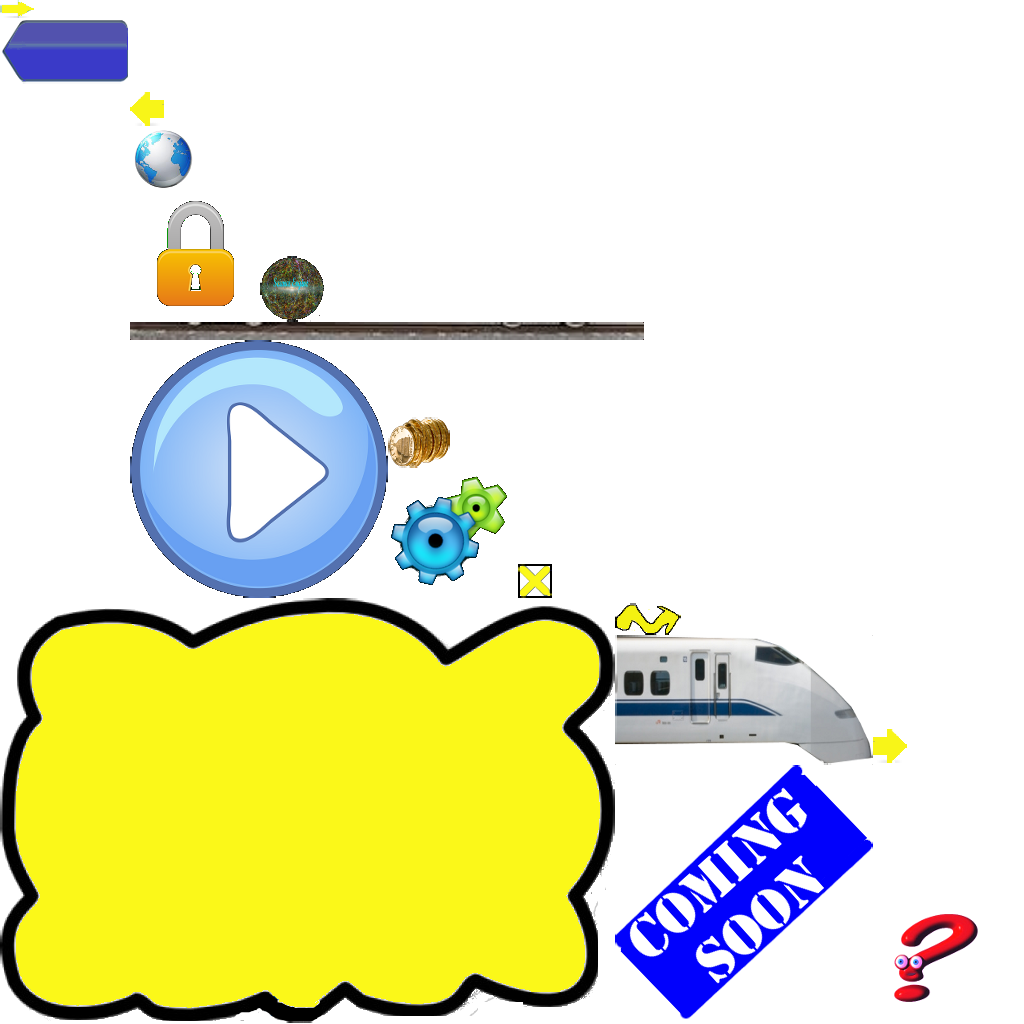
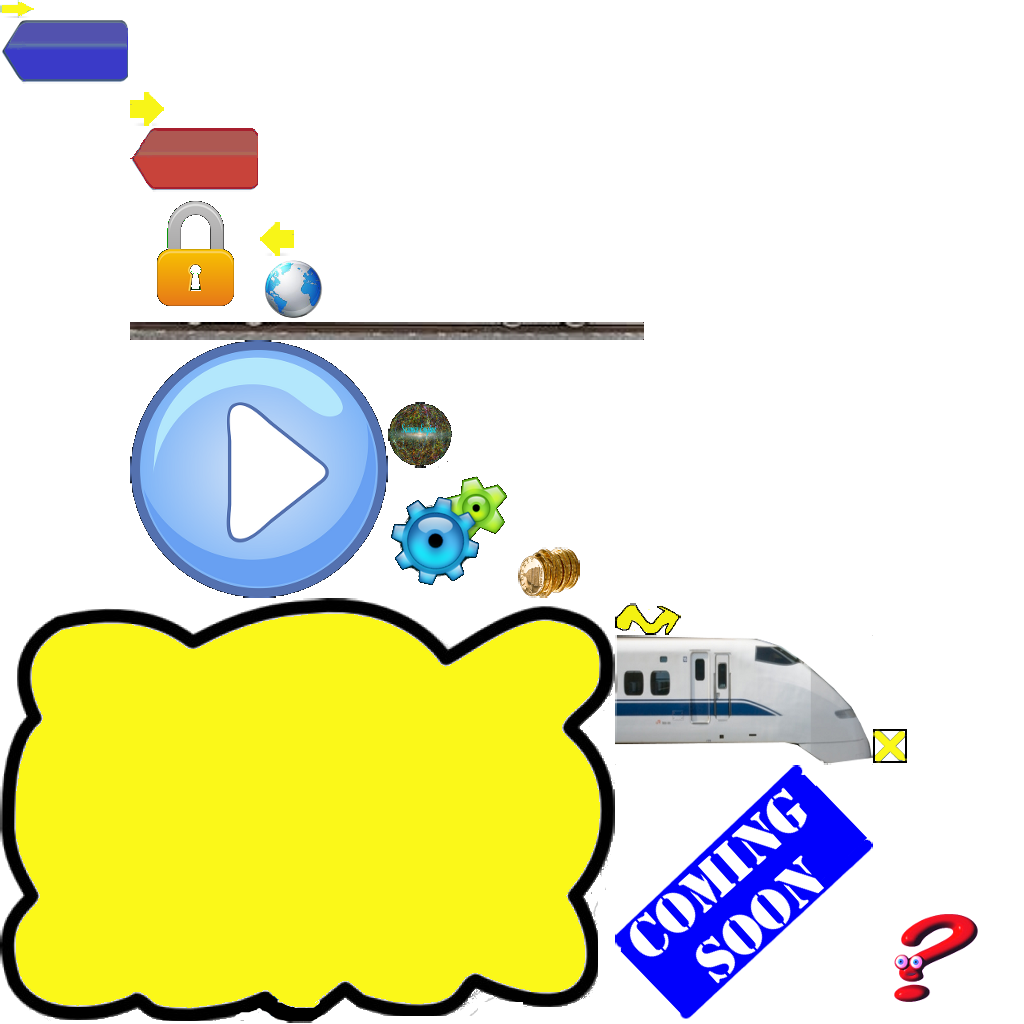
back button down created

diff --git a/ScienceEngine/src/com/mazalearn/scienceengine/app/screens/AbstractScreen.java b/ScienceEngine/src/com/mazalearn/scienceengine/app/screens/AbstractScreen.java
@@ -181,8 +181,9 @@ public abstract class AbstractScreen implements Screen {
       case Back: {
         TextButton backButton = 
             new TextButton(ScienceEngine.getMsg().getString("ViewControls.Back"), getSkin()); //$NON-NLS-1$
-        Drawable image = new TextureRegionDrawable(ScienceEngine.getTextureRegion("back"));
-        TextButton.TextButtonStyle style = new TextButtonStyle(image, image, image);
+        Drawable imageUp = new TextureRegionDrawable(ScienceEngine.getTextureRegion("back"));
+        Drawable imageDown = new TextureRegionDrawable(ScienceEngine.getTextureRegion("backdown"));
+        TextButton.TextButtonStyle style = new TextButtonStyle(imageUp, imageDown, imageDown);
         style.font = skin.getFont("default-font");
         backButton.setStyle(style);
         backButton.setName(screenComponent.name());
